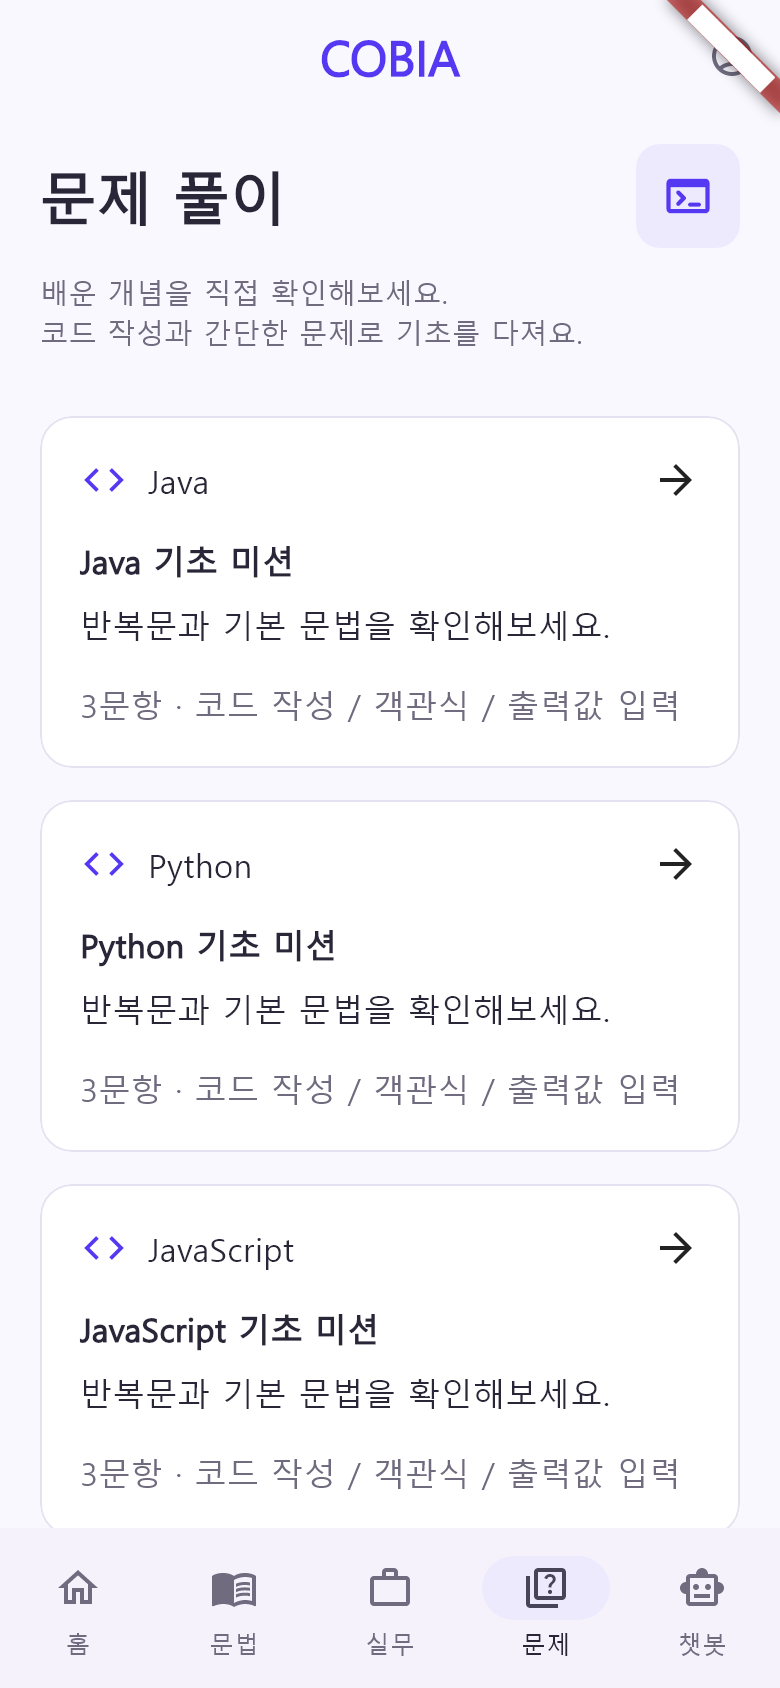
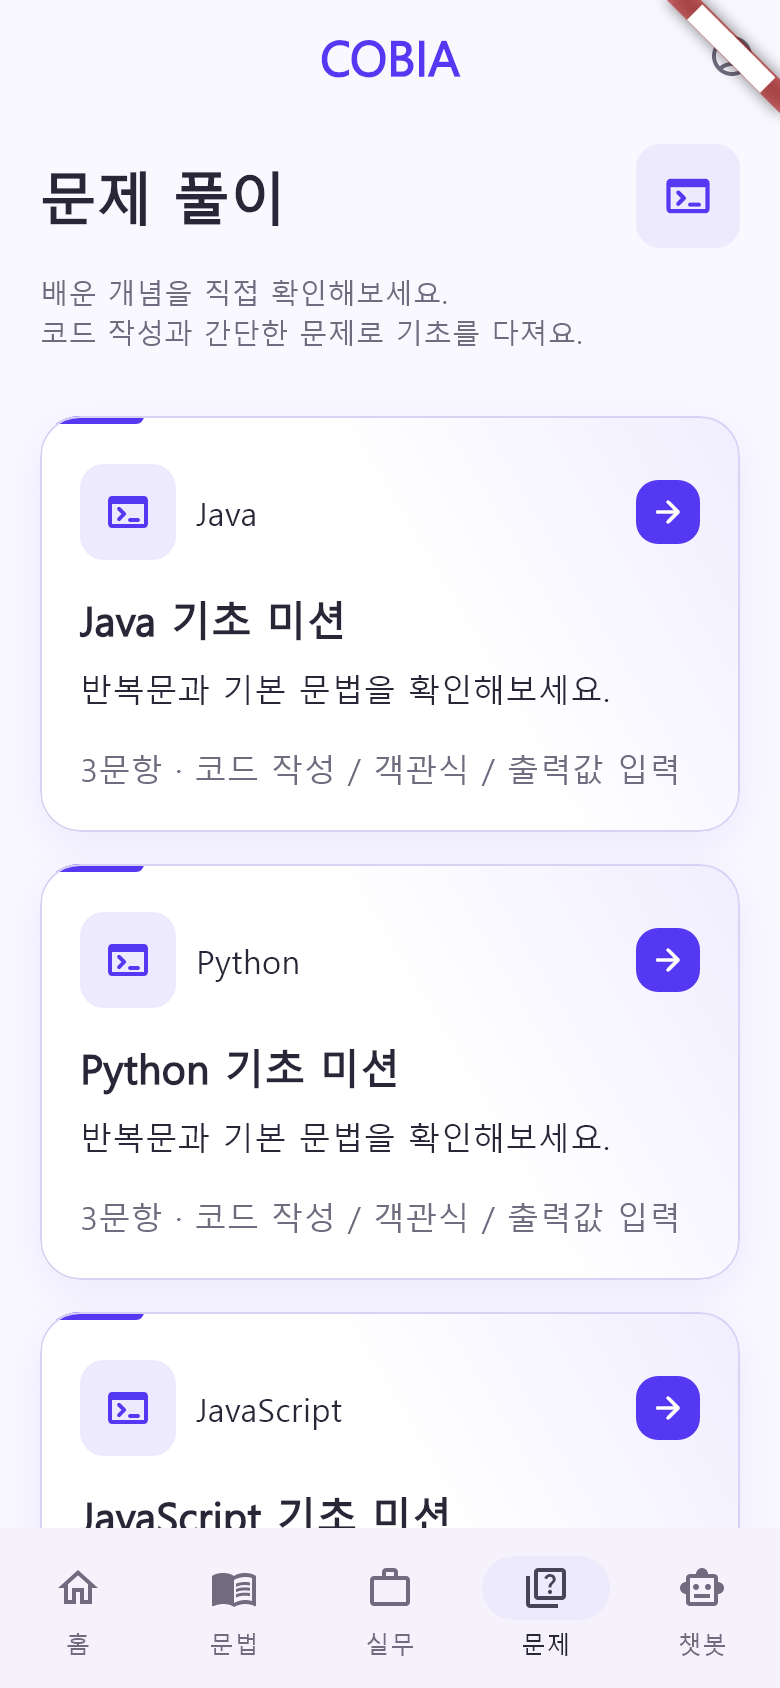
style: 문제 목록 미션 카드 장식 개선

diff --git a/lib/features/problems/presentation/problems_home_screen.dart b/lib/features/problems/presentation/problems_home_screen.dart
@@ -1,3 +1,4 @@
+import '../../../app/widgets/learning_card.dart';
 import '../../../app/widgets/learning_ui.dart';
 import '../../../app/app_ui_tokens.dart';
 
@@ -40,15 +41,8 @@ class ProblemsHomeScreen extends StatelessWidget {
                 icon: Icons.terminal_rounded,
               ),
               for (final mission in problemMissions)
-                Card(
-                  color: Colors.white,
-                  elevation: 0,
+                LearningCard(
                   margin: const EdgeInsets.only(bottom: 16),
-                  clipBehavior: Clip.antiAlias,
-                  shape: RoundedRectangleBorder(
-                    borderRadius: BorderRadius.circular(16),
-                    side: const BorderSide(color: AppColors.border),
-                  ),
                   child: InkWell(
                     onTap: () => context.pushNamed(
                       AppRouteNames.problemMission,
@@ -61,14 +55,17 @@ class ProblemsHomeScreen extends StatelessWidget {
                         children: [
                           Row(
                             children: [
-                              Icon(Icons.code, color: AppColors.primary),
+                              const LearningIcon(
+                                Icons.terminal_rounded,
+                                size: 48,
+                              ),
                               const SizedBox(width: 10),
                               Expanded(child: Text(mission.language)),
-                              const Icon(Icons.arrow_forward),
+                              const LearningCardArrow(),
                             ],
                           ),
                           const SizedBox(height: 16),
-                          Text(mission.title, style: AppTypography.card),
+                          Text(mission.title, style: AppTypography.section),
                           const SizedBox(height: 8),
                           const Text('반복문과 기본 문법을 확인해보세요.'),
                           const SizedBox(height: 16),
